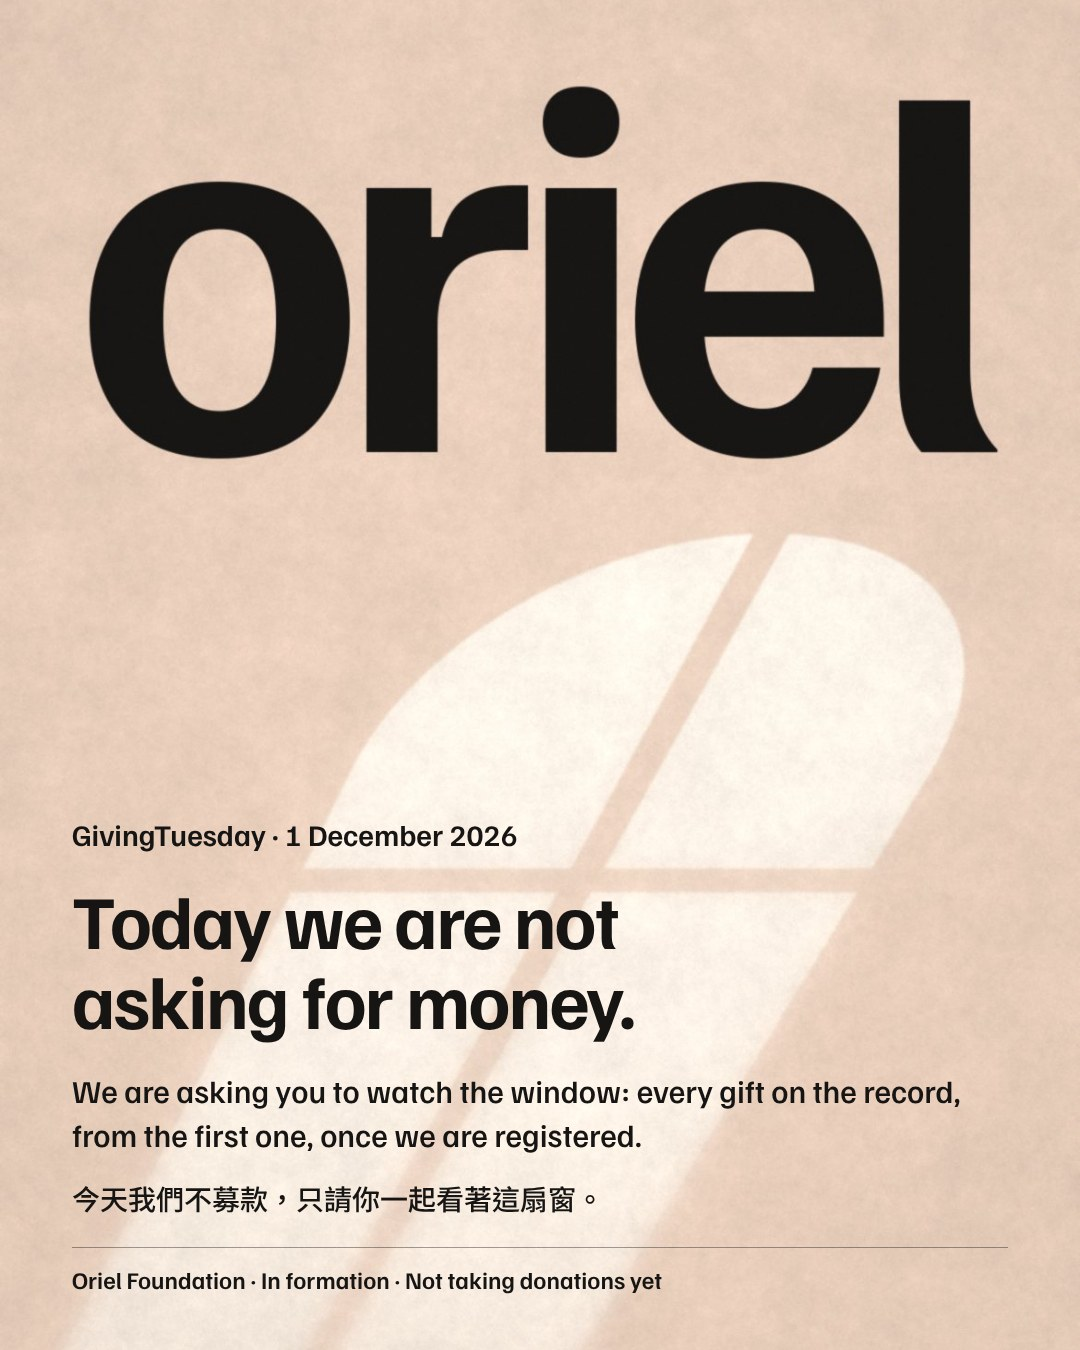
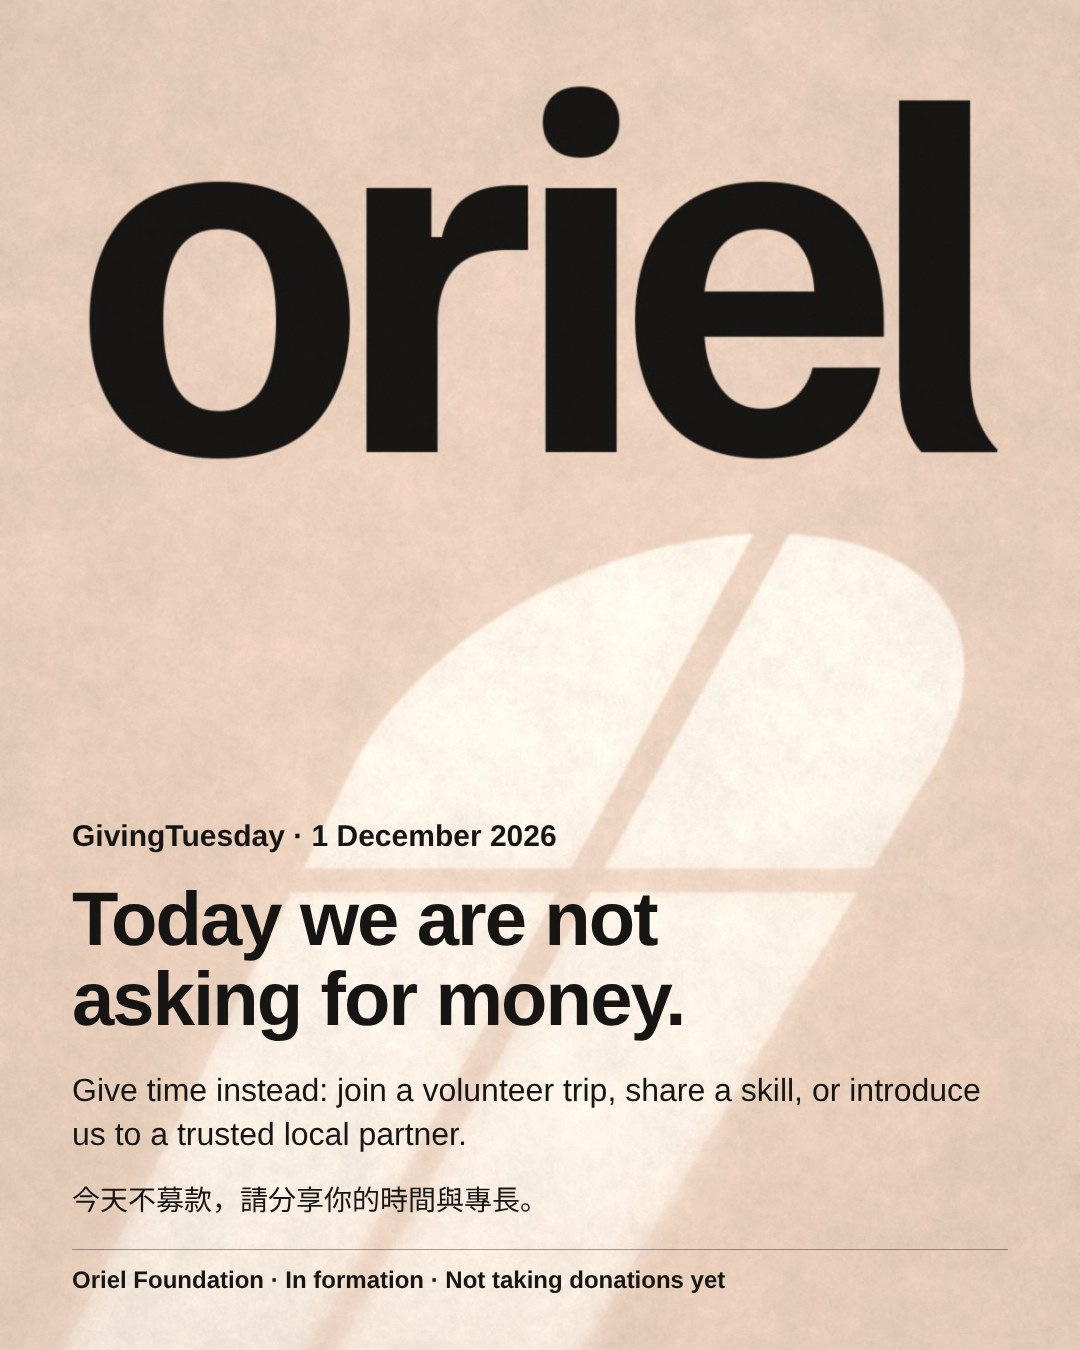
GivingTuesday 12/1: '기부 버튼 없는 기부의 날'로 문구 교체(시간·재능·파트너 소개), 채널별 게시 문구
Claude-Session: https://claude.ai/code/session_01CHRf4J1BbDopD2AToZTnW2

Changed region(s): [[0.0611, 0.5911, 0.8861, 0.9022], [0.0611, 0.9333, 0.6722, 0.9644]]

diff --git a/marketing/2026-W49-givingtuesday/posts.md b/marketing/2026-W49-givingtuesday/posts.md
@@ -1,0 +1,86 @@
+# GivingTuesday 2026-12-01 (화) — "기부 버튼 없는 기부의 날"
+
+원칙: 기부 요청 없음(재단 등록 전). 대신 세 가지를 부탁 — ① 봉사 여행 동행 ② 재능 ③ 현지 파트너 소개.
+링크: https://orielfoundation.org/volunteer/?utm_source=<채널>&utm_medium=social&utm_campaign=givingtuesday2026#apply
+발행: 12/1 아침 08:30~09:30 KST, 모든 채널 같은 날.
+
+이미지: 인스타·링크드인 = *-portrait.jpg / 텔레그램·X = *-wide.jpg
+
+---
+
+## Instagram (@orielfoundation) — givingtuesday-en-portrait.jpg + givingtuesday-ko-portrait.jpg (캐러셀 2장)
+
+It's GivingTuesday, and we're not asking for money.
+
+Oriel is still in formation, so there's no donate button yet. What we'd love instead is a little of your time:
+
+→ Come with us to the Philippines this winter (5 days, with a local volunteer organisation)
+→ Share a skill: teaching, cooking, building, design, photography
+→ Introduce us to a local group you trust in the Philippines, Thailand or Vietnam
+
+Apply in one minute through the link in our bio, or just DM us.
+
+오늘은 기부의 날이지만, 오리엘은 돈을 요청하지 않아요. 대신 시간을 나눠 주세요. 이번 겨울 필리핀 봉사에 함께하거나, 재능을 보태거나, 믿을 만한 현지 단체를 소개해 주세요. 프로필 링크에서 1분이면 신청돼요.
+
+#GivingTuesday #volunteer #Philippines #volunteertrip #education #childrenfirst #OrielFoundation #봉사 #해외봉사 #필리핀봉사
+
+---
+
+## LinkedIn 회사 페이지 (Oriel Foundation) — givingtuesday-en-portrait.jpg
+
+Today is GivingTuesday. Oriel Foundation won't be asking you for money.
+
+We're still in formation, and we've decided not to take a single donation until we're properly registered and can publish every gift on the record. So today we're asking for something else: time.
+
+Three ways to give it:
+
+1. Join our first volunteer trip: 5 days in the Philippines this winter, run together with a local volunteer organisation and under its child-protection rules.
+2. Share what you're good at. We'd especially love teachers, nurses, builders, designers and photographers.
+3. Introduce us to a local organisation you trust in the Philippines, Thailand or Vietnam. Good partners are the whole job.
+
+Apply in a minute: https://orielfoundation.org/volunteer/?utm_source=linkedin&utm_medium=social&utm_campaign=givingtuesday2026#apply
+
+#GivingTuesday #Volunteering #Philippines #Education #Nonprofit
+
+
+## LinkedIn 세준 개인 계정 — 회사 글 퍼가기(Repost with thoughts)
+
+Today is GivingTuesday, and the foundation I'm building is asking for zero dollars.
+
+That's on purpose. Until Oriel is registered and can show every gift on the record, we won't take one. What we can use right now is people: someone to come to the Philippines with us this winter, someone with a skill to share, someone who knows a local group doing honest work with kids.
+
+If that's you, the link is below. 👇
+
+(한글) 오늘은 기부의 날인데, 제가 만드는 재단은 0원을 요청합니다. 일부러예요. 등록을 마치고 모든 기부를 공개할 수 있을 때까지 한 푼도 받지 않기로 했습니다. 지금 필요한 건 사람이에요. 이번 겨울 필리핀에 함께 갈 분, 재능을 나눠줄 분, 아이들과 정직하게 일하는 현지 단체를 아는 분.
+
+---
+
+## Telegram @oriel_foundation — givingtuesday-en-wide.jpg
+
+🪟 GivingTuesday · 1 Dec
+
+We're not asking for money today. Oriel is still in formation, so instead we're asking for time:
+
+• Join our Philippines volunteer trip this winter (5 days, with a local partner)
+• Share a skill
+• Introduce us to a local group you trust (Philippines · Thailand · Vietnam)
+
+Apply in 1 minute 👉 https://orielfoundation.org/volunteer/?utm_source=telegram&utm_medium=social&utm_campaign=givingtuesday2026#apply
+Questions: @btcbullit
+
+오늘 오리엘은 돈 대신 시간을 부탁드려요. 필리핀 봉사 동행 · 재능 나눔 · 현지 단체 소개 🙏
+
+## Telegram @chainbrief_global (+ kr/cn 번역) — givingtuesday-en-wide.jpg
+
+On GivingTuesday, Oriel Foundation (a CHAINBRIEF partner) is asking for time, not money: volunteers for a 5-day Philippines trip this winter, skills, and introductions to trusted local groups. Apply: https://orielfoundation.org/volunteer/?utm_source=chainbrief&utm_medium=telegram&utm_campaign=givingtuesday2026#apply
+(Disclosure: CHAINBRIEF's founder also founded Oriel.)
+
+---
+
+## X (@orielfoundation — 가입 후) — givingtuesday-en-wide.jpg
+
+It's #GivingTuesday and we're not asking for money.
+
+Oriel is still in formation. Give us an hour instead: come to the Philippines with us this winter, share a skill, or introduce a local group you trust.
+
+orielfoundation.org/volunteer
